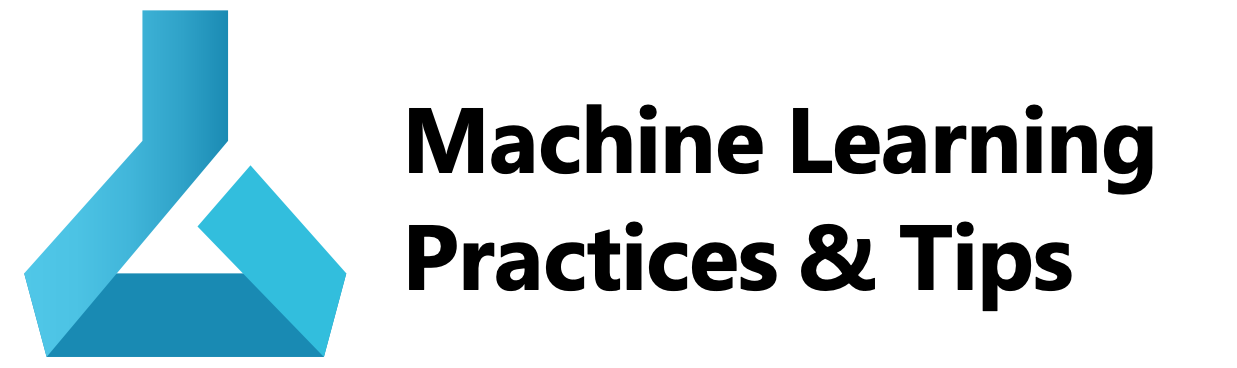
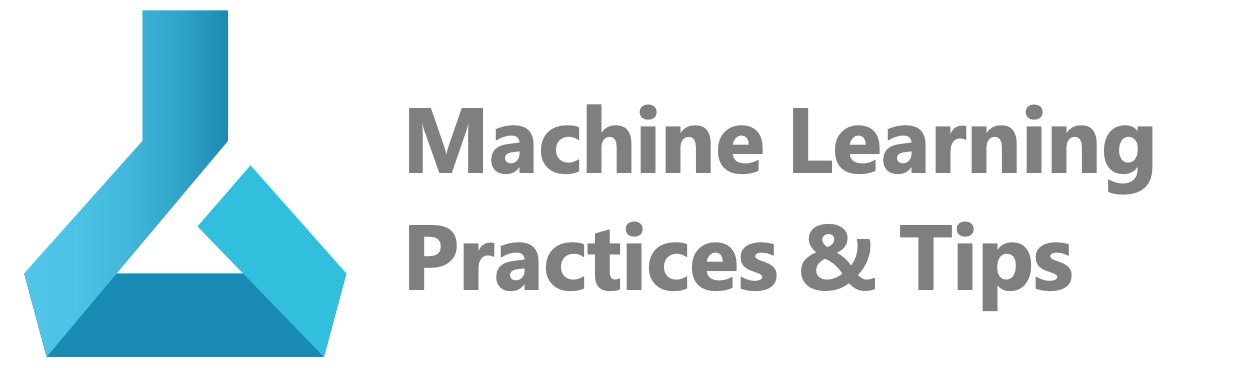
update

Changed region(s): [[0.3072, 0.269, 0.9523, 0.538], [0.3072, 0.5978, 0.8909, 0.837]]

diff --git a/README.md b/README.md
@@ -1,5 +1,5 @@
 <div align="center">
-<img src="./images/head2.png" title="header" width="400">
+<img src="./images/head.png" title="header" width="400">
 </div>
 
 <h4 align="center">機械学習プロジェクトを進めるためのガイドブック</h4>
